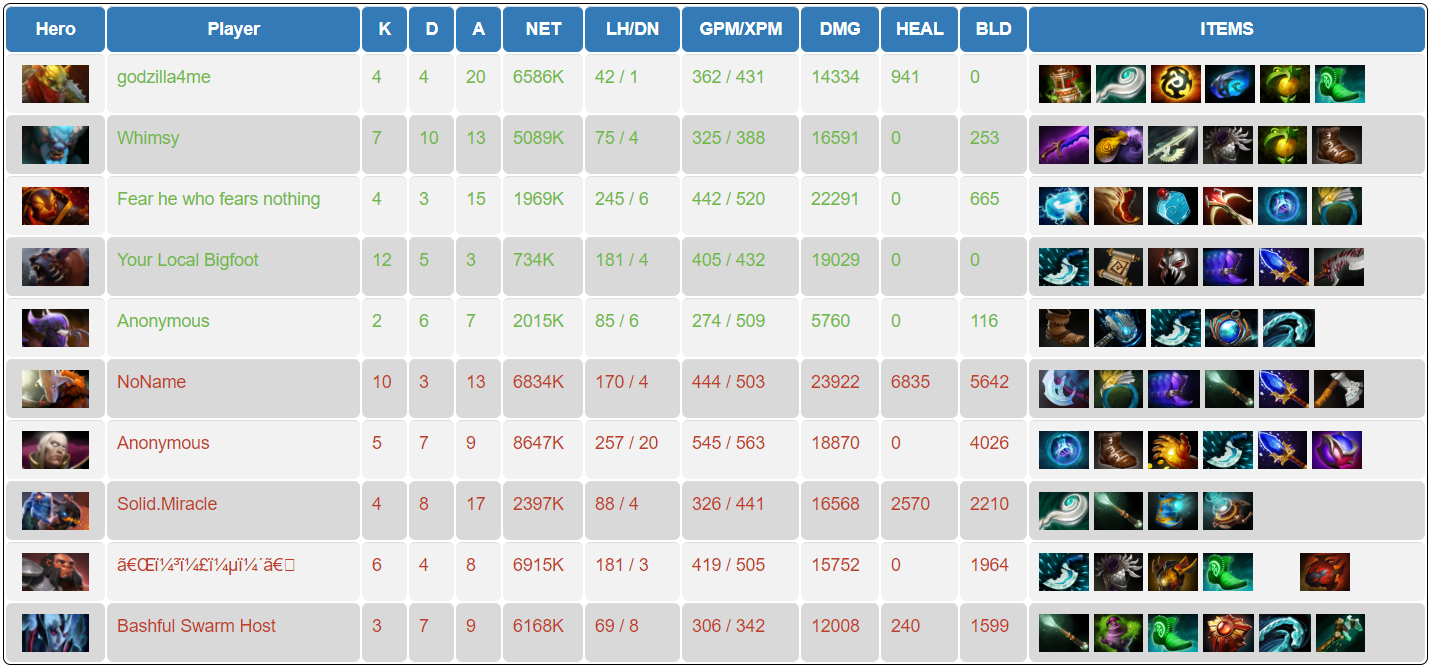
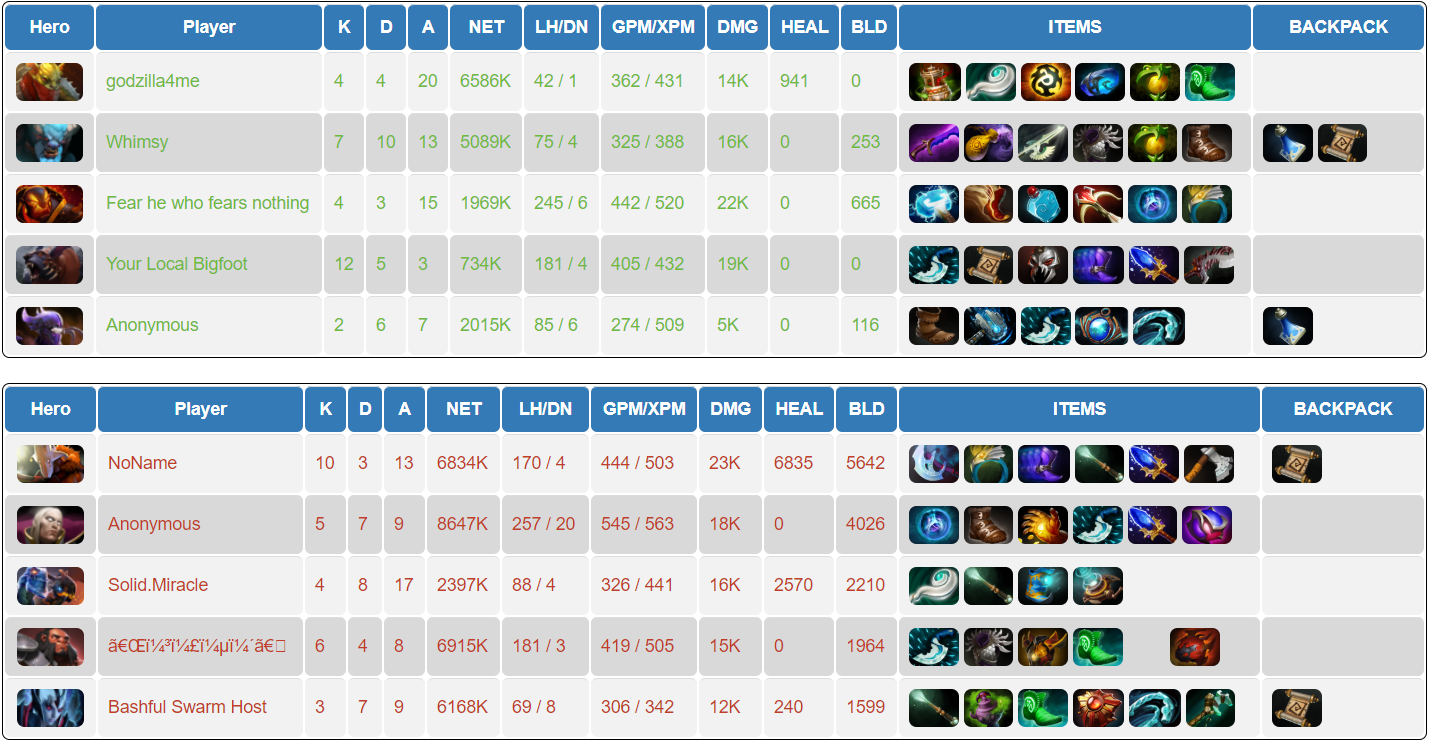
UI changes

diff --git a/DotaWeb/Content/bootstrap.css b/DotaWeb/Content/bootstrap.css
@@ -1532,6 +1532,10 @@ img {
 	border-radius: 50%;
 }
 
+.img-semi-circle {
+	border-radius: 6px;
+}
+
 hr {
 	margin-top: 20px;
 	margin-bottom: 20px;

diff --git a/DotaWeb/Models/MatchDetails/MatchDetailsModel.cs b/DotaWeb/Models/MatchDetails/MatchDetailsModel.cs
@@ -8,6 +8,7 @@ namespace DotaWeb.Models
 		public List<MatchDetailsPlayerModel> Players { get; set; }
 		public bool Radiant_Win { get; set; }
 		public int Duration { get; set; }
+		public string DurationStr { get; set; }
 		public int Start_Time { get; set; }
 		public DateTime StartTime { get; set; }
 		public long Match_ID { get; set; }
@@ -18,6 +19,7 @@ namespace DotaWeb.Models
 		public int Barracks_Status_Dire { get; set; }
 		public int Cluster { get; set; }
 		public int First_Blood_Time { get; set; }
+		public string First_Blood_TimeStr { get; set; }
 		public int Lobby_Type { get; set; }
 		public string Lobbytype { get; set; }
 		public int Human_Players { get; set; }

diff --git a/DotaWeb/Helpers/CommonExtensions.cs b/DotaWeb/Helpers/CommonExtensions.cs
@@ -41,6 +41,9 @@ namespace DotaApi.Helpers
 				match.Lobbytype = lobby;
 			}
 
+			match.DurationStr = StringManipulation.UnixTimeStampToDateTime(match.Duration).ToLongTimeString();
+			match.First_Blood_TimeStr = StringManipulation.UnixTimeStampToDateTime(match.First_Blood_Time).ToLongTimeString();
+
 			foreach (var player in match.Players)
 			{
 				player.Name = ConvertIDtoName(player.Hero_ID, Heroes);
@@ -102,6 +105,7 @@ namespace DotaApi.Helpers
 					// sb.AppendLine("No abilities data");
 				}
 			}
+
 			return match;
 		}
 

diff --git a/README.md b/README.md
@@ -3,7 +3,7 @@
 Sample Table (Match ID: 4169885095)
 <p>
 
-![table](https://user-images.githubusercontent.com/9336827/47392772-5f96e180-d6d2-11e8-9350-d6ea213c98af.PNG)
+![table](https://user-images.githubusercontent.com/9336827/47464231-73f3e080-d79d-11e8-86c3-f7856d20d74d.PNG)
 
 C# MVC web application to show match details using the Steam APIs.
 
